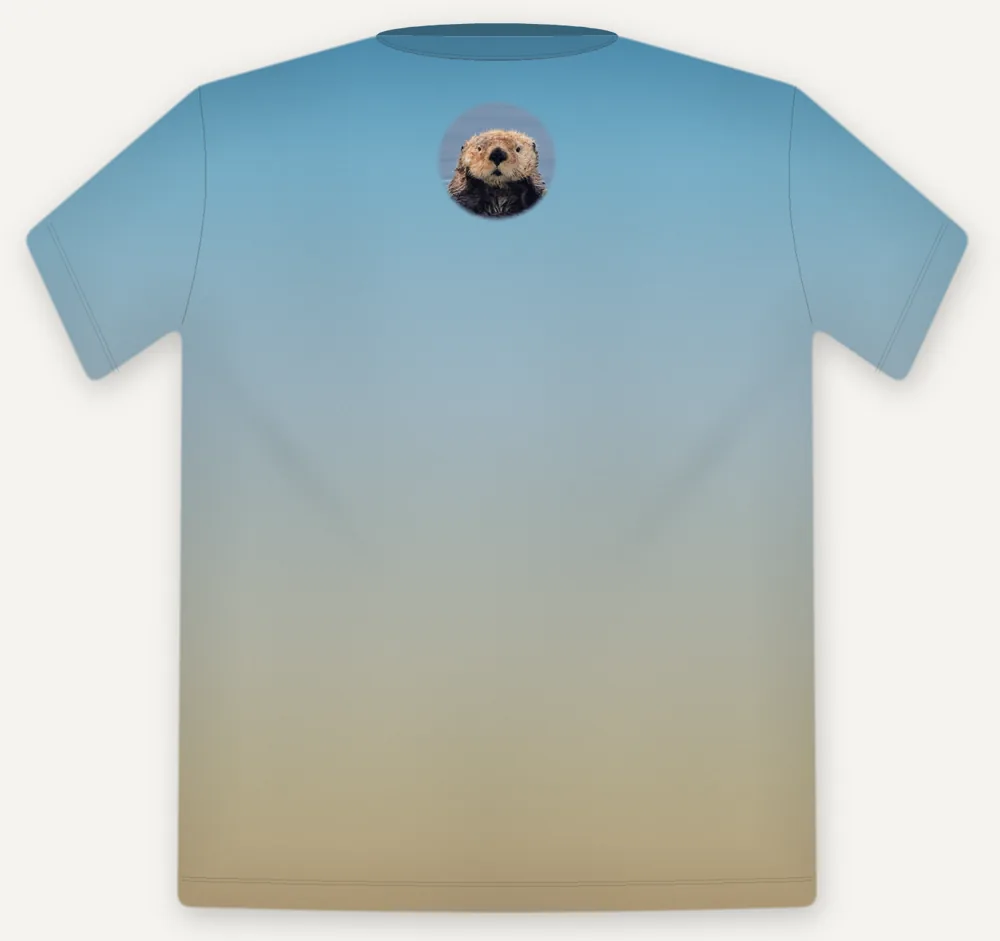
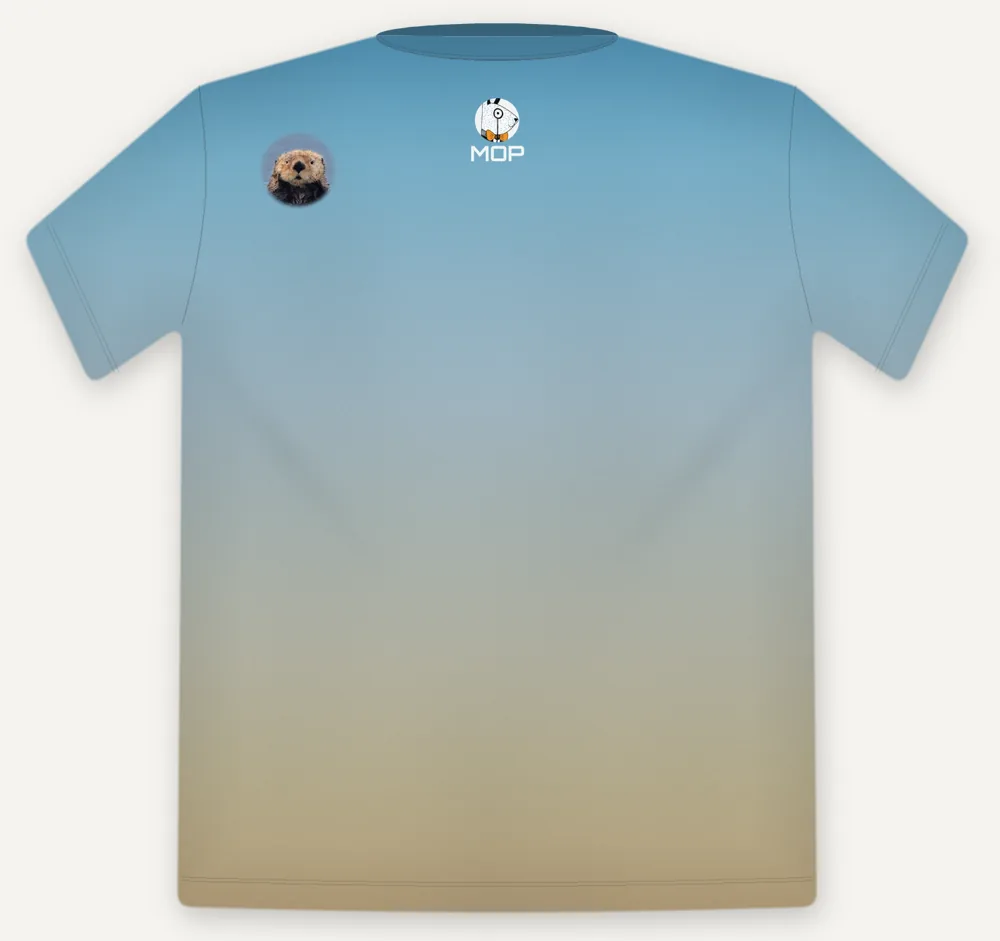
feat(preview): Morro Bay backs — MOP mark centred, crossover badge at the crescent spot

Changed region(s): [[0.434, 0.0925, 0.558, 0.2465], [0.248, 0.1233, 0.341, 0.2465]]

diff --git a/lib/previews.ts b/lib/previews.ts
@@ -115,9 +115,9 @@ export const previews: Preview[] = [
     gallery: [
       img(MORRO, "set", 1400, 650, "The Morro Rock shirt and the sea otter shirt side by side", "The pair", true),
       img(MORRO, "morro-rock-front", 1000, 941, "All-over tee with Morro Rock at sunrise and Morro Bay, CA script", "Morro Rock \u00b7 front \u00b7 photo: Vanessa Kay (CC BY 3.0)"),
-      img(MORRO, "morro-rock-back", 1000, 941, "Back of the Morro Rock tee with a round sea otter badge", "Morro Rock \u00b7 back (otter badge)"),
+      img(MORRO, "morro-rock-back", 1000, 941, "Back of the Morro Rock tee: MOP logo and a small sea otter badge", "Morro Rock \u00b7 back"),
       img(MORRO, "otter-front", 1000, 941, "All-over tee with a sea otter floating on its back and Morro Bay, CA script", "Sea Otter \u00b7 front"),
-      img(MORRO, "otter-back", 1000, 941, "Back of the sea otter tee with a round Morro Rock badge", "Sea Otter \u00b7 back (Morro Rock badge)"),
+      img(MORRO, "otter-back", 1000, 941, "Back of the sea otter tee: MOP logo and a small Morro Rock badge", "Sea Otter \u00b7 back"),
     ],
   },
 ];
